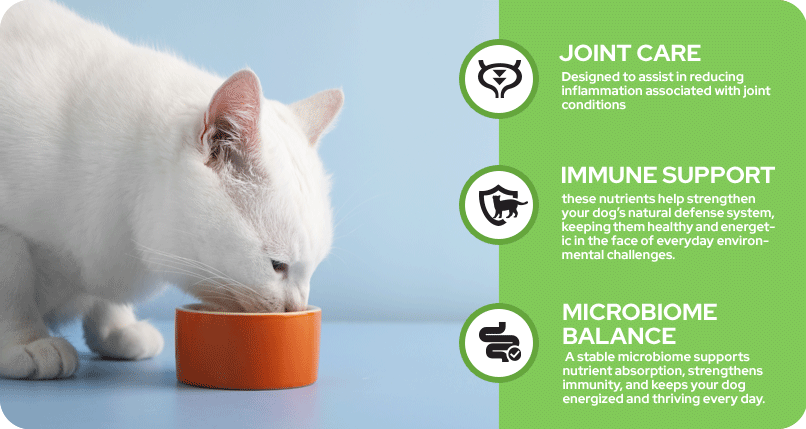
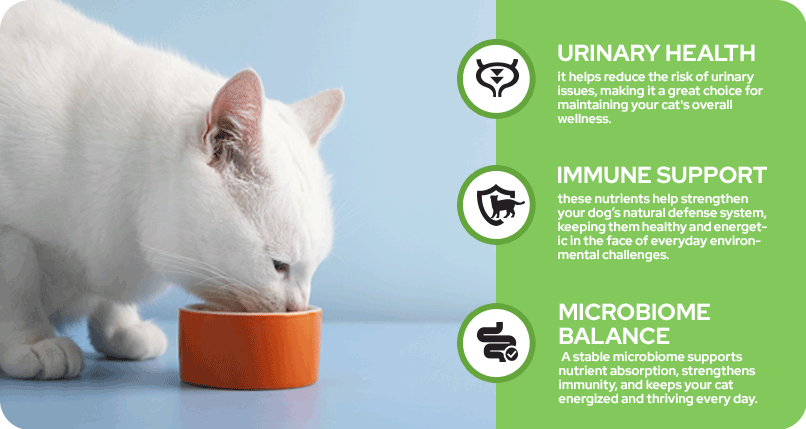
移动端开发

diff --git a/src/views/pdInfoM.js b/src/views/pdInfoM.js
@@ -68,19 +68,17 @@
             text1: 'Fresh free range chicken (36%), fresh turkey (28%), fresh boneless duck (18%), fresh chicken liver (3%), potato flour, dried sweet potato, chicken fat, deep sea fish oil, egg yolk powder, pumpkin, broccoli, carrot, papaya, dried cranberry (1.5%), dandelion granules (1%), alfalfa meal, chicory root powder, yucca powder, ice field moss extract (0.8%), natural lactic acid, fructooligosaccharides, chondroitin sulfate, lecithin, L-carnitine, sodium chloride, choline chloride, taurine, vitamin E, L-ascorbate-2-phosphate, niacin, vitamin A, thiamine mononitrate, D-calcium pantothenate, riboflavin, pyridoxine hydrochloride, cyanocobalamin, folic acid, vitamin D3, D-biotin, iron proteinate, copper proteinate, manganese proteinate, zinc proteinate, calcium iodate, sodium selenite, potassium chloride, Bacillus subtilis, rosemary extract.',
         },
     ],
-    GuidImg: new URL("@/assets/pdimg/pd-tab-bg.jpg", import.meta.url).href,
+    GuidImg: new URL("@/assets/mimgs/cat_feeding_1.png", import.meta.url).href,
     analysisList:['≥ 40.0%','≥ 0.8%','≥ 15.0%','≥ 0.2%','≤ 5.0% ','≥ 0.85%','≤ 10.0%','≥ 2.6%','≥ 1.0%'],
     catBgList: [
-        new URL("@/assets/pdimg/scroll_cat_bg_01.jpg", import.meta.url).href,
-        new URL("@/assets/pdimg/scroll_cat_bg_02.jpg", import.meta.url).href,
-        new URL("@/assets/pdimg/scroll_cat_bg_03.jpg", import.meta.url).href,
+        new URL("@/assets/mimgs/scroll_cat_bg_01.jpg", import.meta.url).href,
     ],
     catDescList: [
-        new URL("@/assets/pdimg/pd-cat-1-desc_07.png", import.meta.url).href,
-        new URL("@/assets/pdimg/pd-cat-1-desc_09.png", import.meta.url).href,
-        new URL("@/assets/pdimg/pd-cat-1-desc_16.png", import.meta.url).href,
-        new URL("@/assets/pdimg/pd-cat-1-desc_25.png", import.meta.url).href,
-        new URL("@/assets/pdimg/pd-cat-1-desc_27.png", import.meta.url).href,
+        new URL("@/assets/mimgs/cat_pd_2_1.png", import.meta.url).href,
+        new URL("@/assets/mimgs/cat_pd_2_2.png", import.meta.url).href,
+        new URL("@/assets/mimgs/cat_pd_2_3.png", import.meta.url).href,
+        new URL("@/assets/mimgs/cat_pd_2_4.png", import.meta.url).href,
+        new URL("@/assets/mimgs/cat_pd_2_5.png", import.meta.url).href,
     ]
 }
 const catPageInfo2 = {
@@ -153,19 +151,17 @@ const catPageInfo2 = {
             text1: 'Arctic char (32%), cod (18%), fresh turkey (16%), salmon (8%), herring (5%), fresh chicken liver (3%), potato flour, dried sweet potatoes, chicken fat, deep-sea fish oil, egg yolk powder, pumpkin, broccoli, carrot, papaya, dried cranberry, dandelion granules, alfalfa powder, chicory root powder, yucca powder, ice field moss extract (0.8%), fructooligosaccharides, chondroitin sulfate, lecithin (0.3%), sodium chloride, choline chloride, taurine, vitamin E, L-ascorbate-2-phosphate, niacin, vitamin A, thiamine mononitrate, D-calcium pantothenate, riboflavin, pyridoxine hydrochloride, cyanocobalamin, folic acid, vitamin Ds, D-biotin, iron proteinate, copper proteinate, manganese proteinate, zine proteinate, calcium iodate, sodium selenite, potassium chloride, Bacillus subtilis, rosemary extract.',
         },
     ],
-    GuidImg: new URL("@/assets/pdimg/pd-tab-cat2-bg.jpg", import.meta.url).href,
+    GuidImg: new URL("@/assets/mimgs/cat_feeding_2.png", import.meta.url).href,
     analysisList:['≥ 40.0%','≥ 0.8%','≥ 16.0%','≥ 0.2%','≤ 5.0% ','≥ 0.85%','≤ 10.0%','≥ 2.6%','≥ 1.0%'],
     catBgList: [
-        new URL("@/assets/pdimg/scroll_cat_bg_01.jpg", import.meta.url).href,
-        new URL("@/assets/pdimg/scroll_cat_bg_02.jpg", import.meta.url).href,
-        new URL("@/assets/pdimg/scroll_cat_bg_03.jpg", import.meta.url).href,
+        new URL("@/assets/mimgs/scroll_cat_bg_01.jpg", import.meta.url).href,
     ],
-    catDescList: [
-        new URL("@/assets/pdimg/pd-cat-2-desc_07.png", import.meta.url).href,
-        new URL("@/assets/pdimg/pd-cat-2-desc_09.png", import.meta.url).href,
-        new URL("@/assets/pdimg/pd-cat-2-desc_16.png", import.meta.url).href,
-        new URL("@/assets/pdimg/pd-cat-2-desc_25.png", import.meta.url).href,
-        new URL("@/assets/pdimg/pd-cat-2-desc_27.png", import.meta.url).href,
+    catDescList: [        
+        new URL("@/assets/mimgs/cat_pd_1_1.png", import.meta.url).href,
+        new URL("@/assets/mimgs/cat_pd_1_2.png", import.meta.url).href,
+        new URL("@/assets/mimgs/cat_pd_1_3.png", import.meta.url).href,
+        new URL("@/assets/mimgs/cat_pd_1_4.png", import.meta.url).href,
+        new URL("@/assets/mimgs/cat_pd_1_5.png", import.meta.url).href,
     ]
 }
 const dogPageInfo = {
@@ -238,19 +234,17 @@ const dogPageInfo = {
             text1: 'Fresh free range chicken (36%), fresh turkey (28%), fresh boneless duck (18%), fresh chicken liver (3%), potato flour, dried sweet potato, chicken fat, deep sea fish oil, egg yolk powder, pumpkin, broccoli, carrot, papaya, dried cranberry (1.5%), dandelion granules (1%), alfalfa meal, chicory root powder, yucca powder, ice field moss extract (0.8%), natural lactic acid, fructooligosaccharides, chondroitin sulfate, lecithin, L-carnitine, sodium chloride, choline chloride, taurine, vitamin E, L-ascorbate-2-phosphate, niacin, vitamin A, thiamine mononitrate, D-calcium pantothenate, riboflavin, pyridoxine hydrochloride, cyanocobalamin, folic acid, vitamin D3, D-biotin, iron proteinate, copper proteinate, manganese proteinate, zinc proteinate, calcium iodate, sodium selenite, potassium chloride, Bacillus subtilis, rosemary extract.',
         },
     ],
-    GuidImg: new URL("@/assets/pdimg/pd-tab-dog-bg.jpg", import.meta.url).href,
+    GuidImg: new URL("@/assets/mimgs/dog_feeding_1.png", import.meta.url).href,
     analysisList:['≥ 40.0%','≥ 0.8%','≥ 15.0%','≥ 0.2%','≤ 5.0% ','≥ 0.85%','≤ 10.0%','≥ 2.6%','≥ 1.0%'],
     catBgList: [
-        new URL("@/assets/pdimg/scroll_dog_bg_01.jpg", import.meta.url).href,
-        new URL("@/assets/pdimg/scroll_dog_bg_02.jpg", import.meta.url).href,
-        new URL("@/assets/pdimg/scroll_dog_bg_03.jpg", import.meta.url).href,
+        new URL("@/assets/mimgs/scroll_dog_bg_01.png", import.meta.url).href,
     ],
     catDescList: [
-        new URL("@/assets/pdimg/pd-dog-1-desc_07.png", import.meta.url).href,
-        new URL("@/assets/pdimg/pd-dog-1-desc_09.png", import.meta.url).href,
-        new URL("@/assets/pdimg/pd-dog-1-desc_16.png", import.meta.url).href,
-        new URL("@/assets/pdimg/pd-dog-1-desc_25.png", import.meta.url).href,
-        new URL("@/assets/pdimg/pd-dog-1-desc_27.png", import.meta.url).href,
+        new URL("@/assets/mimgs/dog_pd_1_1.png", import.meta.url).href,
+        new URL("@/assets/mimgs/dog_pd_1_2.png", import.meta.url).href,
+        new URL("@/assets/mimgs/dog_pd_1_3.png", import.meta.url).href,
+        new URL("@/assets/mimgs/dog_pd_1_4.png", import.meta.url).href,
+        new URL("@/assets/mimgs/dog_pd_1_5.png", import.meta.url).href,
     ]
 }
 

diff --git a/src/views/ProductsMPage.vue b/src/views/ProductsMPage.vue
@@ -149,65 +149,94 @@ import { Swiper, SwiperSlide } from 'swiper/vue'
 import { Pagination, Navigation } from 'swiper/modules'
 const modules = [Pagination, Navigation]
 const router = useRouter();
+
 const slider = ref(null);
 const leftWidth = ref(160); // 左边默认宽度
 let isDragging = false;
-const boxRef = ref(null)
+const boxRef = ref(null);
 const show = ref(false);
 let observer;
-const startDrag = () => {
+
+// ✅ 拖动开始
+const startDrag = (e) => {
   isDragging = true;
+
+  // PC 鼠标事件
   document.addEventListener("mousemove", onDrag);
   document.addEventListener("mouseup", stopDrag);
-};
-const goProductDetail = (id) => {
-  router.push({ name: 'ProductDetail', query: { id } });
-}
 
+  // ✅ 移动端触摸事件
+  document.addEventListener("touchmove", onDrag, { passive: false });
+  document.addEventListener("touchend", stopDrag);
+
+  // 防止选中文本
+  e.preventDefault();
+};
+
+// ✅ 拖动中
 const onDrag = (e) => {
   if (!isDragging) return;
+
   const rect = slider.value.getBoundingClientRect();
-  let newWidth = e.clientX - rect.left;
+  let clientX;
+
+  // ✅ 兼容鼠标与触摸位置
+  if (e.touches && e.touches.length) {
+    clientX = e.touches[0].clientX;
+  } else {
+    clientX = e.clientX;
+  }
+
+  let newWidth = clientX - rect.left;
   if (newWidth < 0) newWidth = 0;
   if (newWidth > rect.width) newWidth = rect.width;
   leftWidth.value = newWidth;
+
+  // 阻止页面滚动（仅触摸时）
+  if (e.cancelable) e.preventDefault();
 };
 
+// ✅ 拖动结束
 const stopDrag = () => {
   isDragging = false;
+
   document.removeEventListener("mousemove", onDrag);
   document.removeEventListener("mouseup", stopDrag);
+
+  document.removeEventListener("touchmove", onDrag);
+  document.removeEventListener("touchend", stopDrag);
 };
 
+// 跳转函数
+const goProductDetail = (id) => {
+  router.push({ name: 'ProductDetail', query: { id } });
+};
 
+// ✅ Intersection Observer 动画触发
 onMounted(() => {
   observer = new IntersectionObserver(
     (entries) => {
       entries.forEach((entry) => {
-        if (entry.isIntersecting) {
-          console.log(entry.target, entry.boundingClientRect, entry.isIntersecting);
-          show.value = true; // 进入视口时触发动画
-        } else {
-          show.value = false;
-        }
+        show.value = entry.isIntersecting;
       });
     },
     {
-      threshold: 0,             // 只要有一点进入就检测
-      rootMargin: "0px 0px -30% 0px"
+      threshold: 0,
+      rootMargin: "0px 0px -30% 0px",
     }
   );
 
   if (boxRef.value) {
     observer.observe(boxRef.value);
   }
-})
+});
 
 onBeforeUnmount(() => {
   if (observer && boxRef.value) {
     observer.unobserve(boxRef.value);
   }
-})
+});
+
 </script>
 
 <style lang="scss" scoped>

diff --git a/src/router/index.js b/src/router/index.js
@@ -45,24 +45,30 @@ const router = createRouter({
 // 👇 路由守卫：根据设备类型跳转
 router.beforeEach((to, from, next) => {
     const mobile = isMobile()
-
-    // 当前是否为移动端路由
     const isMobileRoute = to.path.startsWith('/m/')
 
     if (mobile && !isMobileRoute) {
         // 移动端访问PC路由 → 跳到对应 /m/ 下路径
         const mobilePath = '/m' + to.path
-        // 如果该移动端路径存在再跳转，否则默认跳 /m/home
         const exist = router.getRoutes().some(r => r.path === mobilePath)
-        next(exist ? mobilePath : '/m/home')
+        next({
+            path: exist ? mobilePath : '/m/home',
+            query: to.query,
+            params: to.params
+        })
     } else if (!mobile && isMobileRoute) {
         // PC访问移动端路由 → 去掉 /m
         const pcPath = to.path.replace(/^\/m/, '') || '/'
         const exist = router.getRoutes().some(r => r.path === pcPath)
-        next(exist ? pcPath : '/')
+        next({
+            path: exist ? pcPath : '/',
+            query: to.query,
+            params: to.params
+        })
     } else {
         next()
     }
 })
+
 
 export default router

diff --git a/src/components/FooterMPage.vue b/src/components/FooterMPage.vue
@@ -15,7 +15,7 @@
       <div class="f-message">
         <div class="line"></div>
         <div class="f-message-text">@GloriPetgo</div>
-        <div class="logo">
+        <!-- <div class="logo">
           <div @click="openWindow(3)" class="icon">
             <img src="../assets/images/icon-ins.svg" alt="Instagram" />
           </div>
@@ -25,7 +25,7 @@
           <div @click="openWindow(1)" class="icon">
             <img src="../assets/images/icon-facebook.svg" alt="Facebook" />
           </div>
-        </div>
+        </div> -->
       </div>
     </div>
 
@@ -55,15 +55,15 @@ const goAbout = () => {
 }
 
 
-const openWindow = (index) => {
-  const urls = [
-    "",
-    "https://www.facebook.com/profile.php?id=61577967892785",
-    "https://www.youtube.com/@GloriPetgo",
-    "https://www.instagram.com/",
-  ];
-  window.open(urls[index], "_blank");
-};
+// const openWindow = (index) => {
+//   const urls = [
+//     "",
+//     "https://www.facebook.com/profile.php?id=61577967892785",
+//     "https://www.youtube.com/@GloriPetgo",
+//     "https://www.instagram.com/",
+//   ];
+//   window.open(urls[index], "_blank");
+// };
 </script>
 
 <style lang="scss" scoped>

diff --git a/src/views/ProductMDetail.vue b/src/views/ProductMDetail.vue
@@ -288,7 +288,7 @@ import HeaderMPage from '@/components/HeaderMPage.vue';
 import FooterMPage from '@/components/FooterMPage.vue';
 import { ref, reactive, watch } from 'vue'
 import { useRoute } from 'vue-router';
-import { catPageInfo1, catPageInfo2, dogPageInfo } from '@/views/pdInfo.js'
+import { catPageInfo1, catPageInfo2, dogPageInfo } from '@/views/pdInfoM.js'
 const showTabIndex = ref(0)
 const showPdIndex = ref(1)
 const handleTagChange = (index) => {

diff --git a/src/components/HeaderMPage.vue b/src/components/HeaderMPage.vue
@@ -71,7 +71,7 @@ const toggleMenu = () => (showMenu.value = !showMenu.value);
 
     .menu-toggle {
       cursor: pointer;
-      width: 120px;
+      width: 100px;
       text-align: right;
       img {
         width: 30px;
@@ -116,7 +116,7 @@ const toggleMenu = () => (showMenu.value = !showMenu.value);
     padding-bottom: 10px;
     div {
       cursor: pointer;
-      margin: 0 20px;
+      margin: 20px;
     }
 
     .product-block {

diff --git a/src/views/OurstoryMPage.vue b/src/views/OurstoryMPage.vue
@@ -193,7 +193,7 @@ onBeforeUnmount(() => {
     color: #fff;
 
     .hero-bg {
-      height: 390px;
+      height: 375px;
       overflow: hidden;
 
       img {
